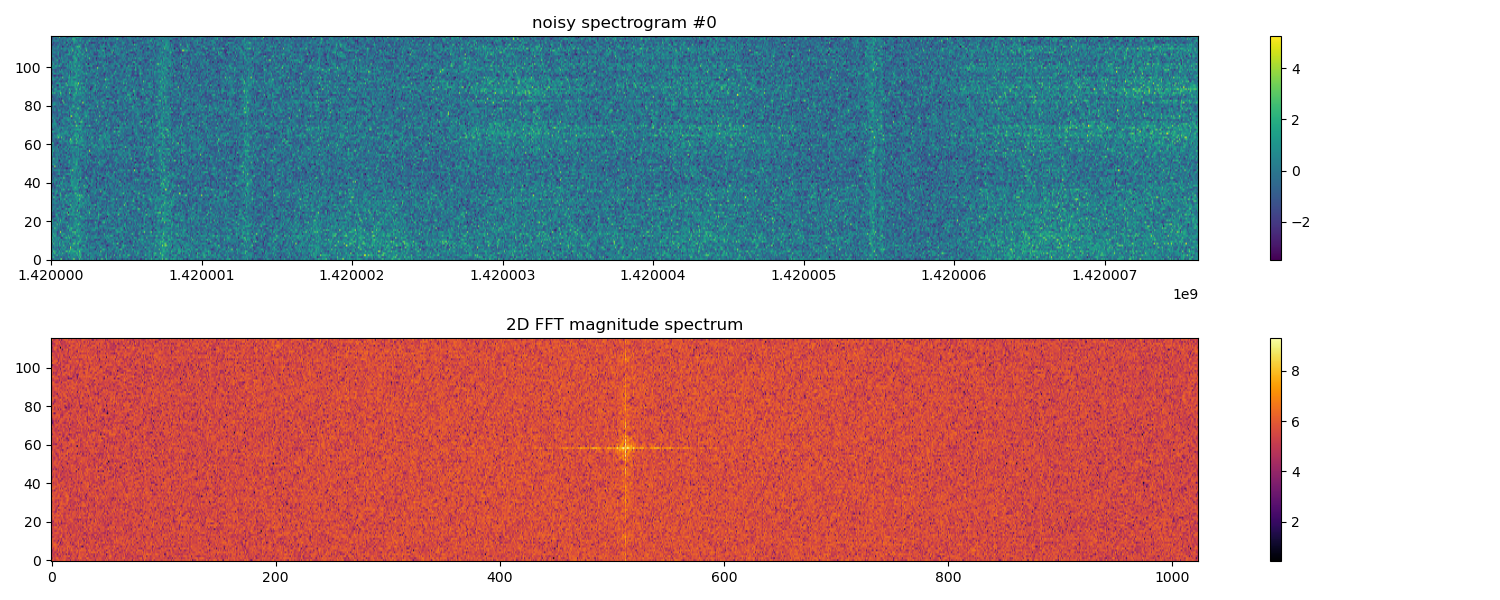
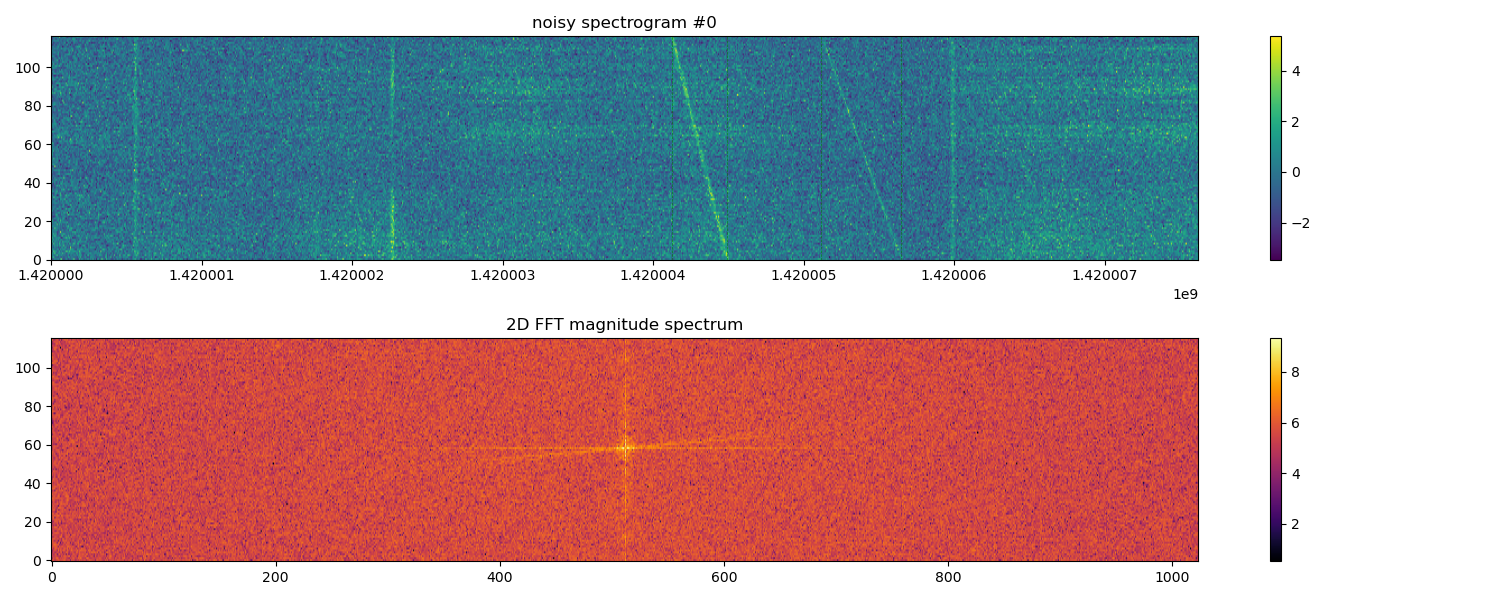
Fixed bugs

diff --git a/gen/SETIdataset.py b/gen/SETIdataset.py
@@ -101,7 +101,7 @@ class DynamicSpectrumDataset(Dataset):
         for i in range(n_signals):
             # 随机路径类型
             path_type = random.choices(['constant', 'sine', 'squared', 'rfi'],
-                                       weights=[0.6, 0.25, 0.35, 0.])[0]
+                                       weights=[0.65, 0.1, 0.25, 0.])[0]
             # 默认信号参数
             margin = int(0.2 * self.fchans)
 
@@ -496,6 +496,6 @@ if __name__ == "__main__":
         from arXiv:2502.20419v1 [astro-ph.IM] 27 Feb 2025
     """
 
-    plot_samples(dataset, kind='clean', num=100, with_spectrum=True, spectrum_type='mean')
-    # plot_samples(dataset, kind='noisy', num=30, with_spectrum=True, spectrum_type='fft2d')
+    # plot_samples(dataset, kind='clean', num=100, with_spectrum=True, spectrum_type='mean')
+    plot_samples(dataset, kind='noisy', num=30, with_spectrum=True, spectrum_type='fft2d')
     # plot_samples(dataset, kind='mask', num=30, with_spectrum=False)

diff --git a/main.py b/main.py
@@ -56,7 +56,7 @@ drift_min = -4.0
 drift_max = 4.0
 drift_min_abs = df // (tchans * dt)
 snr_min = 25.0
-snr_max = 45.0
+snr_max = 40.0
 width_min = 7.5
 width_max = 20
 num_signals = (0, 1)
@@ -83,7 +83,7 @@ weight_decay = 1.e-9
 T_max = 30
 eta_min = 1.0e-15
 force_save_best = True
-freeze_backbone = False
+freeze_backbone = True
 force_reconstruct = False
 mismatch_load = True
 
@@ -109,7 +109,7 @@ dwtnet_args = dict(
 unet_args = dict()
 
 regress_loss_args = dict(
-    lambda_denoise=1.0,
+    lambda_denoise=0.,
     loss_type='mse',
     lambda_learnable=False,
     regression_loss_kwargs=dict(
